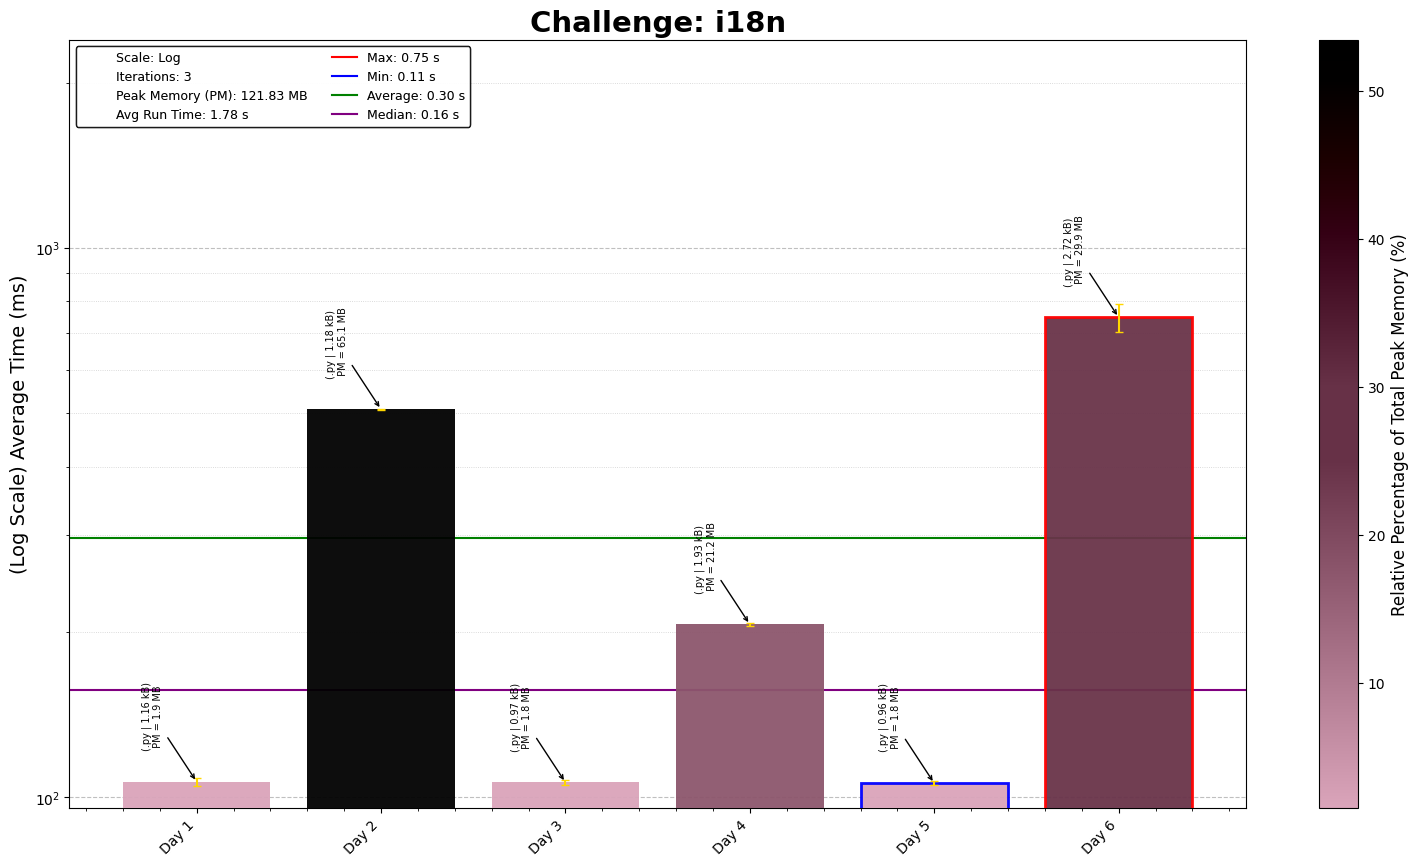
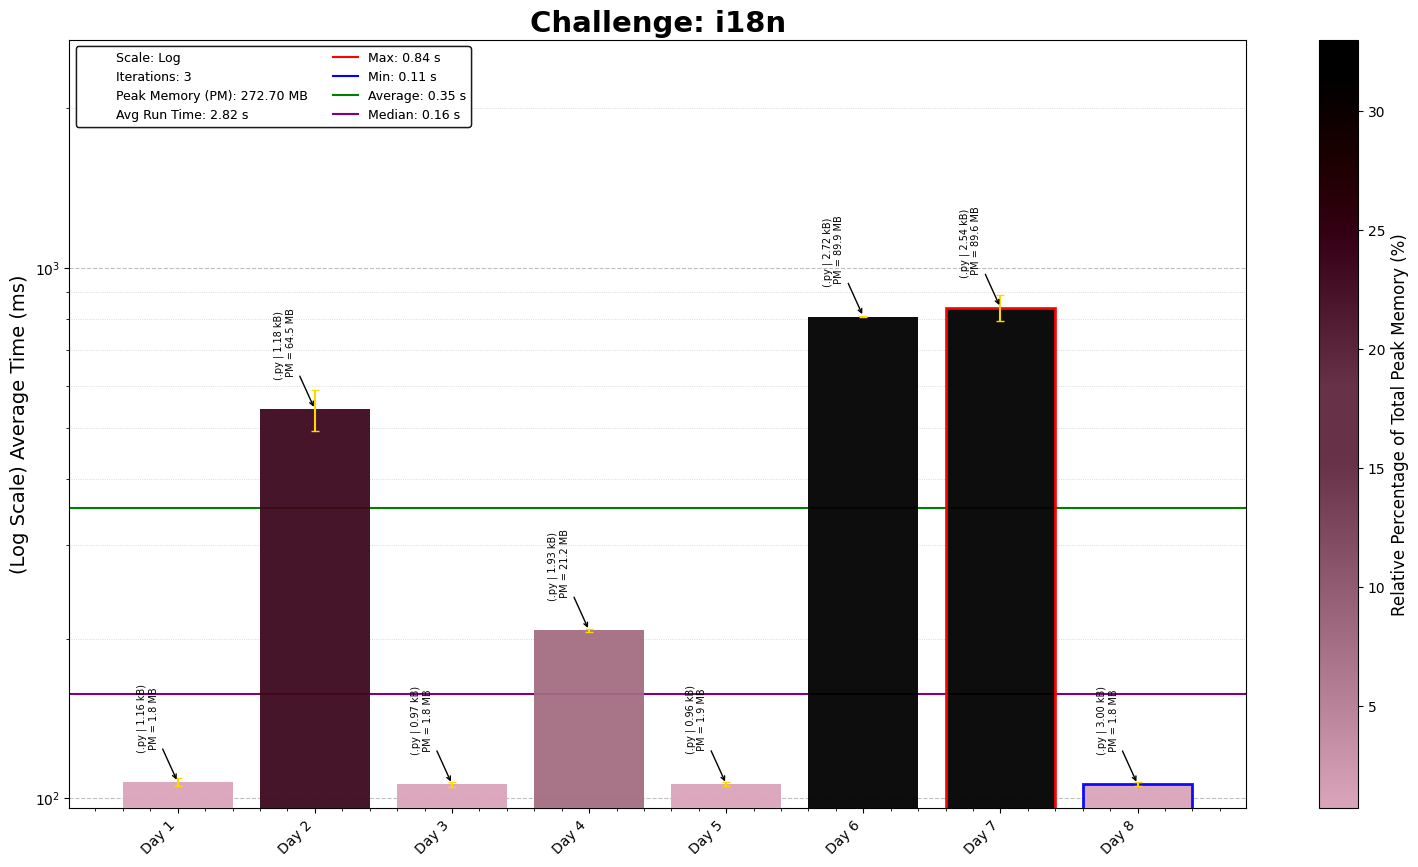
i18 Puzzles 8

diff --git a/i18n/08/i18nDay08.py b/i18n/08/i18nDay08.py
@@ -7,10 +7,7 @@ Brief: [Code/Problem Description]
 
 #!/usr/bin/env python3
 
-import os, re, copy
-import numpy as np
-import pandas as pd
-import matplotlib.pyplot as plt
+import os, unicodedata
 
 # Load the input data from the specified file path
 D08_file = "Day08_input.txt"
@@ -20,51 +17,76 @@ D08_file_path = os.path.join(os.path.dirname(os.path.abspath(__file__)), D08_fil
 with open(D08_file_path, encoding="utf-8") as file:
     input_data = file.read().strip().split('\n')
 
-test_input = ['iS0', 'V8AeC1S7KhP4Ļu', 'pD9Ĉ*jXh', 'E1-0', 'ĕnz2cymE', 'tqd~üō', 'IgwQúPtd9', 'k2lp79ąqV']
-import unicodedata
-
 def normalize_letter(c):
     """Normalize a character to remove accents and convert to lowercase."""
     normalized = unicodedata.normalize('NFKD', c)  # Decomposes accents (e.g., Á → A´)
     return ''.join([ch for ch in normalized if unicodedata.category(ch) != 'Mn']).lower()
 
-def is_valid_password(password):
-    """Check if the password meets all validity rules."""
-    if not (4 <= len(password) <= 12):  # Length check
-        print("wrong length:", password)
+def normalize_letter(c):
+    """Normalize a character by removing accents and converting it to lowercase."""
+    normalized = unicodedata.normalize('NFKD', c)
+    return ''.join(ch for ch in normalized if unicodedata.category(ch) != 'Mn').lower()
+
+def is_valid_password(password, verbose=False):
+    """Check if the password meets all validity rules, with optional visualization."""
+
+    # Length check
+    if not (4 <= len(password) <= 12):
+        if verbose:
+            print(f"❌ Invalid: {password} (wrong length)")
         return False
 
-    if not any(c.isdigit() for c in password):  # At least one digit
-        print("no digit:", password)
+    # At least one digit
+    if not any(c.isdigit() for c in password):
+        if verbose:
+            print(f"❌ Invalid: {password} (no digit)")
         return False
 
     vowels = set("aeiouáéíóúäëïöüàèìòùâêîôûãõ")
-    consonants = set("bcdfghjklmnpqrstvwxyzñŷç")  # Including special consonants
+    consonants = set("bcdfghjklmnpqrstvwxyzñŷç")
 
-    has_vowel = any(c in vowels for c in password)
-    has_consonant = any(c in consonants for c in password)
-
-    if not has_vowel:  # Must contain at least one vowel and one consonant
-        print("has vowel:", password)
-        return False
-
-    if not has_consonant:
-        print("has consonant:", password)
-        return False
-
-    # Check for duplicate letters (ignoring accents and case)
+    has_vowel = has_consonant = False
     seen = set()
-    for c in password:
-        normalized_c = normalize_letter(c)  # Remove accents, lowercase
-        if normalized_c in seen:
-            
-            return False  # Duplicate found
-        seen.add(normalized_c)
+    prev_normalized = None  # Track for immediate duplicates
 
+    for c in password:
+        norm_c = normalize_letter(c)  # Remove accents, lowercase
+
+        # Check for vowels and consonants
+        if norm_c in vowels:
+            has_vowel = True
+        elif norm_c in consonants:
+            has_consonant = True
+
+        # Detect consecutive or duplicate letters
+        if norm_c == prev_normalized:
+            if verbose:
+                print(f"❌ Invalid: {password} (double letter '{c}')")
+            return False
+
+        if norm_c in seen:
+            if verbose:
+                print(f"❌ Invalid: {password} (repeated letter '{c}')")
+            return False
+
+        seen.add(norm_c)
+        prev_normalized = norm_c  # Update last seen letter
+
+    # Final vowel and consonant check
+    if not has_vowel:
+        if verbose:
+            print(f"❌ Invalid: {password} (missing vowel)")
+        return False
+    if not has_consonant:
+        if verbose:
+            print(f"❌ Invalid: {password} (missing consonant)")
+        return False
+
+    if verbose:
+        print(f"✅ Valid: {password}")
     return True
 
-# Validate passwords from input_data
-valid_passwords = [password for password in test_input if is_valid_password(password)]
+# Example usage
+valid_passwords = [pw for pw in input_data if is_valid_password(pw)]
 
-print("No. of Valid Passwords:", len(valid_passwords))
-
+print("Total Valid Passwords:", len(valid_passwords))

diff --git a/i18n/README_i18n.md b/i18n/README_i18n.md
@@ -10,4 +10,6 @@ This repository contains coding solutions for the i18n puzzles.
 4. **Puzzle 4- A trip around the world**: Calculating travel time, fairly simple time math using datetime and zoneinfo
 5. **Puzzle 5- Don't step in it...**: Fairly simple but definitely helped by python's handling of emojis, alternative handling in Java or C# would be interesting.
 6. **Puzzle 6- Mojibake puzzle dictionary**: Fairly simple problem of matching words, once you make sure you have copied the input correctly. Took a while to realize that.
+7. **Puzzle 7- Datetime**:
+8. **Puzzle 8- Unicode passwords redux**: Validating passwords fairly simple, once I figured out how to normalise the letter.
 ---
